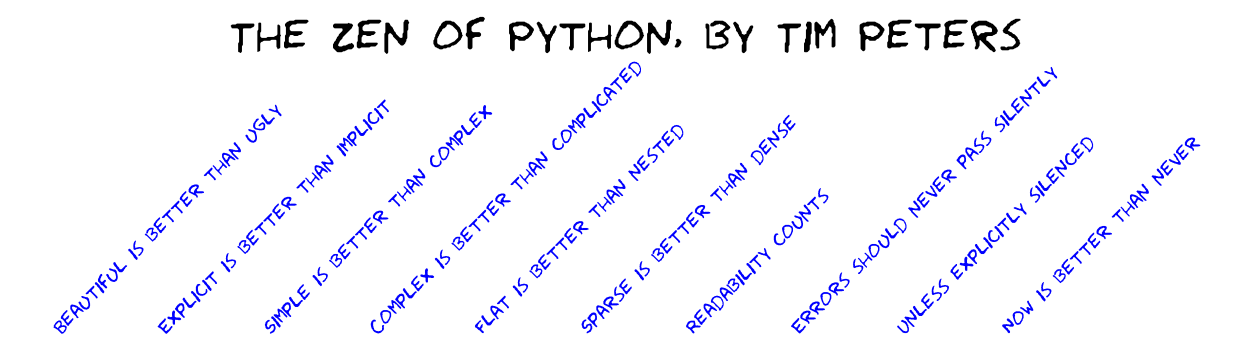
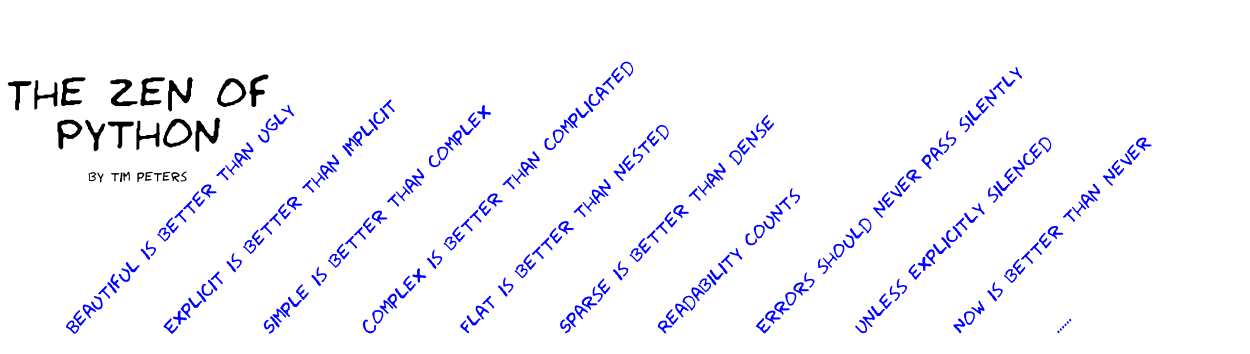
iteration

diff --git a/00-teaser/xkcd3.py b/00-teaser/xkcd3.py
@@ -30,25 +30,30 @@ def draw (layout,strings):
         fig.text (x,y,text,rotation=angle,fontsize=fontsize,color=color,ha=ha,va=va)
 
 FONT_SMALL,FONT_LARGE=14,32
-X_left=0.04
-X_right=0.8
+X_left=0.05
+X_right=0.84
 Y_bottom=0.05
 
 ANGLE=45
 
 # on ne prend que les plus courts; on enleve celui qui tombe a plat
 title=original_aphorisms[0]
+title=["The zen of\nPython","by tim peters"]
 aphorisms = [ a.strip('.') for a in original_aphorisms[1:] if len(a)<=40 and 'Although' not in a ]
+aphorisms.append ('......')
 n=len(aphorisms)
 
 delta=float(X_right-X_left)/(n-1)
-layout_title = [ (0.5,0.9,0,FONT_LARGE,'k','center','center'), ]
-layout_items = [ (X_left+i*delta,Y_bottom, ANGLE, FONT_SMALL, 'b','left','bottom')
+layout_title = [ (.11,0.68,0,FONT_LARGE,'k','center','center'), 
+                 (.11,.5,0,10,'k','center','center'),
+]
+layout_aphos = [ (X_left+i*delta,Y_bottom, ANGLE, FONT_SMALL, 'b','left','bottom')
                  for i,a in zip(range(n),aphorisms) ]
-layout = layout_title + layout_items
+layout = layout_aphos + layout_title
+items = aphorisms + title
 # Le titre vient en premier
 
-draw (layout,[title]+aphorisms)  
+draw (layout,items)
 
 fig.savefig('xkcd3.png')
 
